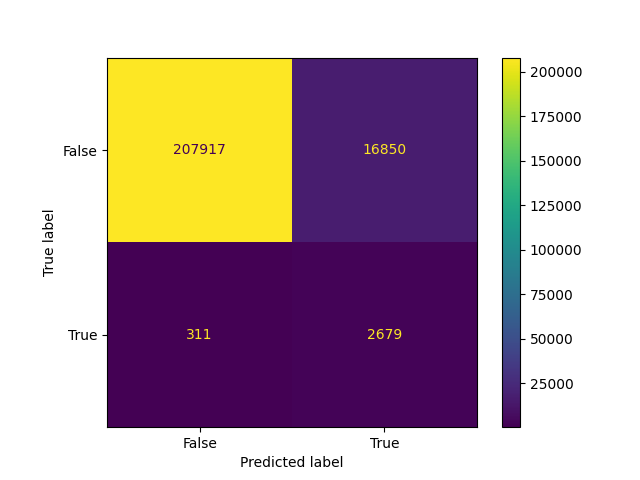
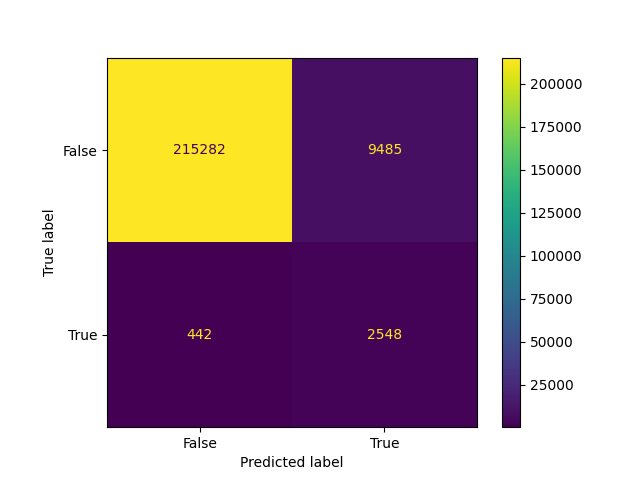
+ ran for 200 and 60 epochs

diff --git a/models/Original_MLP/First_MLP.py b/models/Original_MLP/First_MLP.py
@@ -230,7 +230,7 @@ def calculate_accuracy(output, labels):
 train_losses = []
 val_losses = []
 val_accs = []
-for epoch in range(10):  # Adjust epochs as needed
+for epoch in range(60):  # Adjust epochs as needed
     epoch_train_loss = 0.0
     epoch_val_loss = 0.0
 
@@ -264,7 +264,7 @@ for epoch in range(10):  # Adjust epochs as needed
         epoch_val_loss = val_loss.item()
         val_losses.append(epoch_val_loss)
         val_accs.append(epoch_val_acc)
-        print(f"Epoch [{epoch + 1}/10], Training Loss: {avg_epoch_train_loss:.4f}, Validation Loss: {epoch_val_loss:.4f}, Validation Accuracy: {epoch_val_acc:.4f}")
+        print(f"Epoch [{epoch + 1}/60], Training Loss: {avg_epoch_train_loss:.4f}, Validation Loss: {epoch_val_loss:.4f}, Validation Accuracy: {epoch_val_acc:.4f}")
 
 print("######TRAINING DONE######")
 
@@ -314,20 +314,20 @@ print("False Positives (FP):", FP)
 print("False Negatives (FN):", FN)
 print("True Positives (TP):", TP)
 
-# Precision
-precision = metrics.precision_score(true_labels, predictions)
-# Recall
-recall = metrics.recall_score(true_labels, predictions)
-# F1-Score
-f1 = metrics.f1_score(true_labels, predictions)
-# ROC Curve and AUC
-fpr, tpr, thresholds = metrics.roc_curve(true_labels, predictions)
-roc_auc = metrics.auc(fpr, tpr)
-
-print("Precision:", precision)
-print("Recall:", recall)
-print("F1-Score:", f1)
-print("ROC AUC:", roc_auc)
+# Precision 
+precision = metrics.precision_score(true_labels, predictions) 
+# Recall 
+recall = metrics.recall_score(true_labels, predictions) 
+# F1-Score 
+f1 = metrics.f1_score(true_labels, predictions) 
+# ROC Curve and AUC 
+fpr, tpr, thresholds = metrics.roc_curve(true_labels, predictions) 
+roc_auc = metrics.auc(fpr, tpr) 
+  
+print("Precision:", precision) 
+print("Recall:", recall) 
+print("F1-Score:", f1) 
+print("ROC AUC:", roc_auc) 
 
 plt.figure()
 plt.plot(fpr, tpr, color='darkorange', lw=2, label='ROC curve (area = %0.2f)' % roc_auc)

diff --git a/models/Original_MLP/MLP_sklearn.py b/models/Original_MLP/MLP_sklearn.py
@@ -252,4 +252,15 @@ plt.ylabel('True Positive Rate')
 plt.title('Receiver Operating Characteristic (ROC) Curve')
 plt.legend(loc="lower right")
 plt.savefig("ROC_AUC_sklearn.png")
+
+
+
+fpr, tpr, thresholds = metrics.roc_curve(y_test, y_pred.tolist())
+
+plt.plot([0,1], [0,1], '--')
+plt.plot(fpr, tpr)
+plt.xlabel("False Positive Rate")
+plt.ylabel("True Positive Rate")
+plt.title('Logistic Regression ROC Curve')
+plt.savefig("ROC_AUC_sklearn_v2.png")
 print("######ROC-AUC PLOT DONE######")
